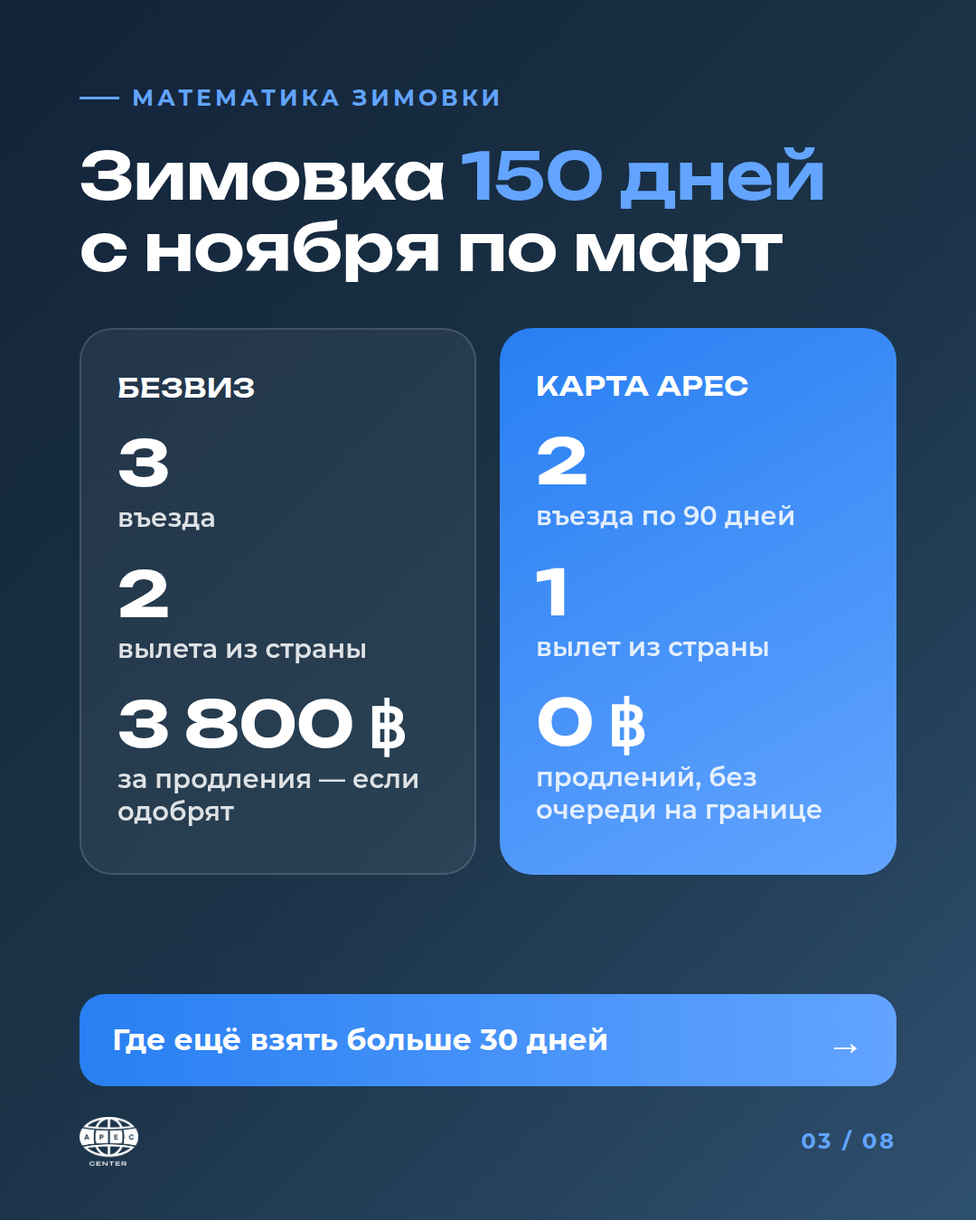
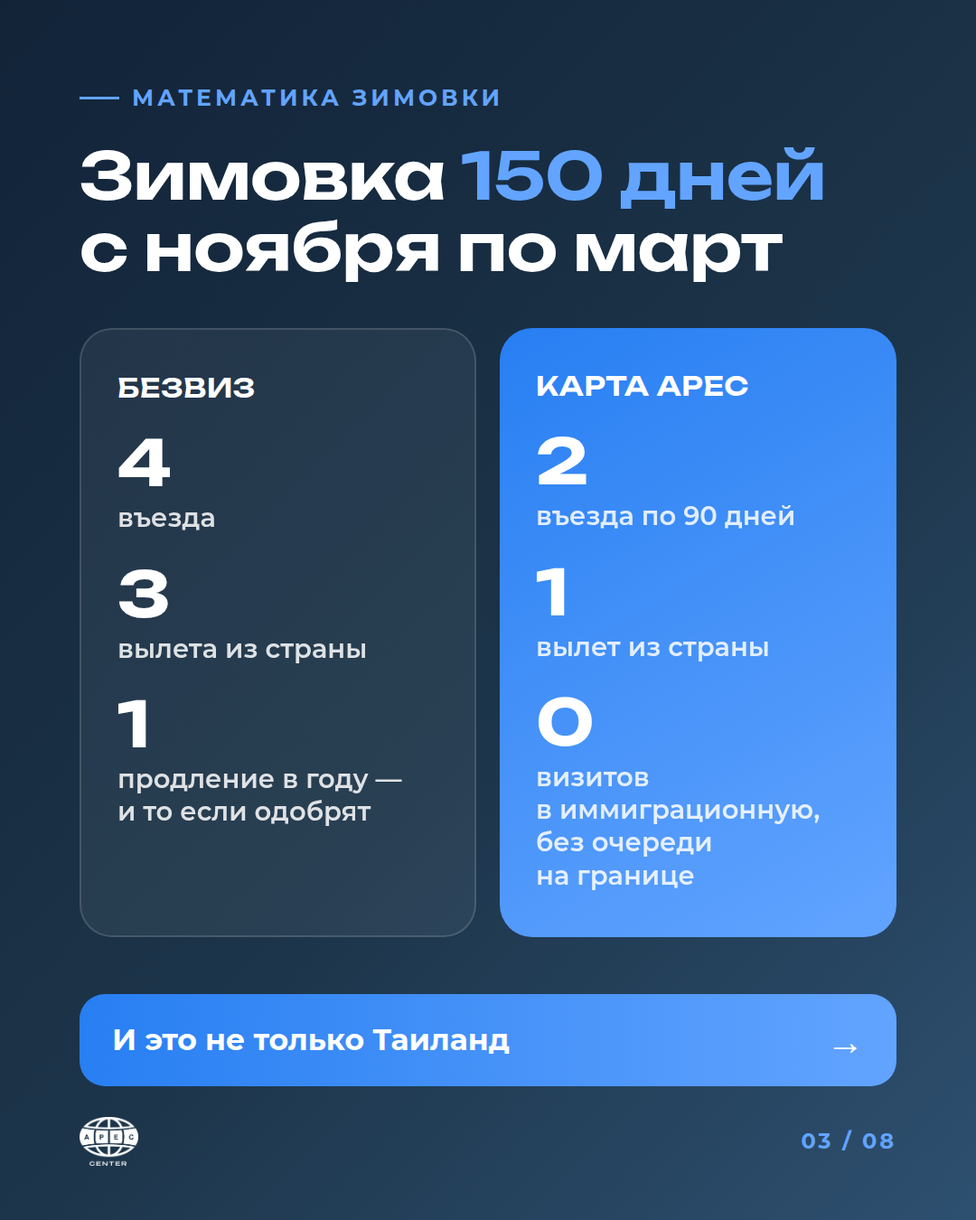
Real APEC card and Russian passport imagery; rewrite carousel copy from sales book
Claude-Session: https://claude.ai/code/session_01KUW5gvDSgVLbfC5BPYxotx

diff --git a/carousels/aleks-legal-90/slides.html b/carousels/aleks-legal-90/slides.html
@@ -172,6 +172,11 @@
   .ci.no .m { background: rgba(255,255,255,.14); }
   .chips-l { display: flex; flex-wrap: wrap; gap: 14px; margin-top: 30px; }
   .chip-l { font: 600 27px/1 'Montserrat'; padding: 20px 26px; border-radius: 999px; background: var(--white); color: var(--dark); box-shadow: 0 6px 20px rgba(28,52,73,.07); }
+
+  .stat2 { display: grid; grid-template-columns: 1fr 1fr; gap: 22px; margin-top: 44px; }
+  .stat2 .big { font: 700 170px/1 'Unbounded'; letter-spacing: -.04em; margin-top: 18px; }
+  .stat2 .u { font: 700 30px/1.2 'Montserrat'; margin-top: 8px; }
+  .stat2 .k { font: 500 27px/1.38 'Montserrat'; margin-top: 18px; opacity: .85; }
 </style>
 </head>
 <body>
@@ -181,113 +186,116 @@
   <div class="bg sky-shade" style="background-image:url(bg/cover.png)"></div>
   <img class="cover-logo" src="apec-logo-navy.png" alt="">
   <div class="content">
-    <span class="pill">Вопрос, который задают все</span>
-    <h1 style="font-size:74px;margin-top:24px">Штамп на&nbsp;90&nbsp;дней<br>в&nbsp;Таиланде —<br><span class="accent">это легально?</span></h1>
+    <span class="pill">Не верьте на слово</span>
+    <h1 style="font-size:70px;margin-top:24px;white-space:nowrap">Штамп на&nbsp;90&nbsp;дней:<br><span class="accent">законно или&nbsp;развод?</span></h1>
   </div>
-  <div class="footer"><span>@ALEKS_RYKOV</span><span class="swipe">Разбираю без воды →</span></div>
+  <div class="footer"><span>@ALEKS_RYKOV</span><span class="swipe">3 факта внутри →</span></div>
 </section>
 
-<!-- 2. КОРОТКИЙ ОТВЕТ -->
+<!-- 2. ОТВЕТ: ДА + 3 ПРОВЕРЯЕМЫХ ФАКТА -->
 <section class="slide light" id="s2">
   <div class="content">
     <span class="tag">Короткий ответ</span>
     <div class="yes-big">Да.</div>
     <div class="pillars">
-      <div class="pillar"><div class="ic">1</div><div><div class="t">Карту выдаёт МИД РФ</div><div class="d">Официальный документ, а не «услуга посредника»</div></div></div>
-      <div class="pillar"><div class="ic">2</div><div><div class="t">Таиланд — участник программы</div><div class="d">Полноправный участник APEC Business Travel Card</div></div></div>
-      <div class="pillar"><div class="ic">3</div><div><div class="t">90 дней прописаны в правилах</div><div class="d">Держателям карты с кодом THA — до&nbsp;90&nbsp;дней за въезд</div></div></div>
+      <div class="pillar"><div class="ic">1</div><div><div class="t">Карту выдаёт МИД РФ</div><div class="d">Официальный документ на 5 лет, а не «виза от посредника»</div></div></div>
+      <div class="pillar"><div class="ic">2</div><div><div class="t">Подача только через ТПП, РСПП или «Опору России»</div><div class="d">Других каналов в МИД просто нет</div></div></div>
+      <div class="pillar"><div class="ic">3</div><div><div class="t">Трек-номер проверяете сами</div><div class="d">В официальном кабинете APEC — без нас</div></div></div>
     </div>
   </div>
-  <div class="teaser"><span>Как это устроено</span><span>→</span></div>
+  <div class="teaser"><span>«Но я же не бизнесмен»</span><span>→</span></div>
   <div class="footer"><img src="apec-logo-navy.png" alt=""><span class="count">02 / 08</span></div>
 </section>
 
-<!-- 3. КАК РАБОТАЕТ -->
+<!-- 3. Я НЕ БИЗНЕСМЕН (ИН-01) -->
 <section class="slide dark" id="s3">
   <div class="content">
-    <span class="tag">Как это работает</span>
-    <h2>Не лазейка, <span class="accent">а&nbsp;программа АТЭС</span></h2>
-    <div class="photo-box" style="background-image:url(bg/stamp.png)"></div>
-    <div class="flow">
-      <div class="fl"><div class="n">1</div><div><div class="t">Страны проверяют вас заранее</div><div class="d">Каждая страна АТЭС сама одобряет держателя карты</div></div></div>
-      <div class="fl"><div class="n">2</div><div><div class="t">На обороте — код THA</div><div class="d">Значит, Таиланд уже дал согласие на ваш въезд</div></div></div>
-      <div class="fl"><div class="n">3</div><div><div class="t">Паспорт + карта на границе</div><div class="d">Отдельный коридор и штамп до 90 дней</div></div></div>
+    <span class="tag">Самый частый страх</span>
+    <h2>«Карта же для&nbsp;бизнесменов. <span class="accent">Мне нужно ИП?»</span></h2>
+    <div class="flow" style="margin-top:50px; gap:30px">
+      <div class="fl"><div class="n">1</div><div><div class="t">Нет, ИП открывать не нужно</div><div class="d">Подходит фриланс, найм, удалёнка — нужен только загранпаспорт</div></div></div>
+      <div class="fl"><div class="n">2</div><div><div class="t">Вас включают в компанию с реальной ВЭД</div><div class="d">Вы — её международный представитель</div></div></div>
+      <div class="fl"><div class="n">3</div><div><div class="t">Заявку подаёт она через аккредитованный канал</div><div class="d">ТПП РФ, РСПП или «Опора России» → МИД РФ</div></div></div>
+      <div class="fl"><div class="n">4</div><div><div class="t">Бухгалтерия и отчёты вам не нужны</div><div class="d">Статус формальный, обязательств не несёт</div></div></div>
     </div>
   </div>
-  <div class="teaser"><span>Почему 90, а не 30</span><span>→</span></div>
+  <div class="teaser"><span>Зачем это всё, если есть безвиз</span><span>→</span></div>
   <div class="footer"><img src="apec-logo-white.png" alt=""><span class="count">03 / 08</span></div>
 </section>
 
-<!-- 4. ПОЧЕМУ 90, А НЕ 30 -->
+<!-- 4. 11 ПРОТИВ 4 (ИН-09) -->
 <section class="slide light" id="s4">
   <div class="content">
     <span class="tag">С 15 сентября 2026</span>
-    <h2>Почему всем 30, <span class="accent">а&nbsp;по&nbsp;карте 90?</span></h2>
-    <div class="vs">
-      <div class="lightcol"><h3>Безвиз</h3><div class="big">30</div><div class="k">дней, только туризм, продление на&nbsp;усмотрение офицера</div></div>
-      <div class="bluecol"><h3>Карта APEC</h3><div class="big">90</div><div class="k">дней, отдельное соглашение для деловых поездок</div></div>
+    <h2>11 бордерранов в&nbsp;год <span class="accent">против&nbsp;4</span></h2>
+    <div class="stat2">
+      <div class="lightcol"><h3>Без карты</h3><div class="big">11</div><div class="u">выездов в год</div><div class="k">Безвиз 30 дней. Продлить на&nbsp;30 можно только раз в&nbsp;году</div></div>
+      <div class="bluecol"><h3>С картой APEC</h3><div class="big">4</div><div class="u">выезда в год</div><div class="k">90 дней за въезд, раз в&nbsp;квартал, без визитов в&nbsp;иммиграционную</div></div>
     </div>
-    <div class="verdict">Это <b>два разных основания для въезда</b>. Новые правила урезали безвиз, а&nbsp;программу APEC не&nbsp;затронули.</div>
+    <div class="verdict">Сокращение безвиза <b>держателей карты не затронуло</b>. Посчитайте: сколько стоит ваш один выезд × 7?</div>
   </div>
   <div class="teaser"><span>А теперь честно о нюансах</span><span>→</span></div>
   <div class="footer"><img src="apec-logo-navy.png" alt=""><span class="count">04 / 08</span></div>
 </section>
 
-<!-- 5. ЧТО ДАЁТ И ЧЕГО НЕТ -->
+<!-- 5. ЧЕСТНО ПРЕДУПРЕЖДАЕМ -->
 <section class="slide dark" id="s5">
   <div class="content">
-    <span class="tag">Честно о нюансах</span>
+    <span class="tag">Честно предупреждаем</span>
     <h2>Что карта даёт <span class="accent">и&nbsp;чего не&nbsp;даёт</span></h2>
     <div class="can">
-      <div class="ci ok"><div class="m">✓</div><div><div class="t">До 90 дней за въезд</div><div class="d">Деловые поездки: встречи, переговоры, поиск партнёров</div></div></div>
-      <div class="ci ok"><div class="m">✓</div><div><div class="t">Многократно 5 лет</div><div class="d">Пока действует загранпаспорт</div></div></div>
-      <div class="ci no"><div class="m">✕</div><div><div class="t">Не разрешение на работу</div><div class="d">Работать по найму в Таиланде можно только с work permit</div></div></div>
-      <div class="ci no"><div class="m">✕</div><div><div class="t">Не «автомат» на границе</div><div class="d">Последнее слово за офицером — как при любом въезде</div></div></div>
+      <div class="ci ok"><div class="m">✓</div><div><div class="t">До 90 дней за въезд, 5 лет</div><div class="d">Въезды не ограничены, коридор APEC в аэропортах</div></div></div>
+      <div class="ci ok"><div class="m">✓</div><div><div class="t">Ещё 17 стран АТЭС</div><div class="d">Сингапур и Тайвань без визы, Корея без K-ETA</div></div></div>
+      <div class="ci no"><div class="m">✕</div><div><div class="t">Не разрешение на работу</div><div class="d">И 90 дней в иммиграционной обычно не продлевают</div></div></div>
+      <div class="ci no"><div class="m">✕</div><div><div class="t">Не «пустят всегда»</div><div class="d">Решение о въезде — за пограничником. Японию и Австралию не обещаем</div></div></div>
     </div>
   </div>
-  <div class="teaser"><span>Откуда статус для подачи</span><span>→</span></div>
+  <div class="teaser"><span>Как проверить нас</span><span>→</span></div>
   <div class="footer"><img src="apec-logo-white.png" alt=""><span class="count">05 / 08</span></div>
 </section>
 
-<!-- 6. ВЭД-ПУЛ -->
+<!-- 6. КАК ПРОВЕРИТЬ НАС (ИН-04) -->
 <section class="slide light" id="s6">
   <div class="content">
-    <span class="tag">Частый вопрос</span>
-    <h2>«У меня нет бизнеса. <span class="accent">Мне можно?»</span></h2>
-    <div class="pillars">
-      <div class="pillar"><div class="ic">✓</div><div><div class="t">Да, по установленной процедуре</div><div class="d">Вас включают в пул внешнеторговых советников действующей ВЭД-компании</div></div></div>
-      <div class="pillar"><div class="ic">✓</div><div><div class="t">Заявку подаёт компания</div><div class="d">Через аккредитованный канал в МИД РФ: ТПП, РСПП или «Опора России»</div></div></div>
-      <div class="pillar"><div class="ic">✓</div><div><div class="t">Без обязательств для вас</div><div class="d">Статус формальный: ни отчётов, ни бухгалтерии</div></div></div>
+    <span class="tag">Проверяемые факты</span>
+    <h2>Как проверить, <span class="accent">что&nbsp;это не&nbsp;развод</span></h2>
+    <div class="photo-box" style="background-image:url(bg/check.png); height:370px; background-position:center 55%"></div>
+    <div class="chips-l">
+      <span class="chip-l">Договор с ИП Константиновым Д.&nbsp;Ю.</span>
+      <span class="chip-l">Трек-номер в кабинете APEC</span>
+      <span class="chip-l">Отзывы на Яндексе</span>
+      <span class="chip-l">Один сайт — apec.center</span>
+      <span class="chip-l">Возврат 100% при отказе МИД</span>
     </div>
   </div>
-  <div class="teaser"><span>Как проверить, что всё чисто</span><span>→</span></div>
+  <div class="teaser"><span>И всё это — удалённо</span><span>→</span></div>
   <div class="footer"><img src="apec-logo-navy.png" alt=""><span class="count">06 / 08</span></div>
 </section>
 
-<!-- 7. КАК ПРОВЕРИТЬ -->
+<!-- 7. УДАЛЁННО (ИН-08) -->
 <section class="slide photo" id="s7">
-  <div class="bg card-shade" style="background-image:url(bg/card.png)"></div>
+  <div class="bg full-shade" style="background-image:url(bg/cover-real.png)"></div>
   <div class="content">
-    <span class="tag">Чек-лист без серых схем</span>
-    <h2>Как понять, <span class="accent">что&nbsp;вас не&nbsp;обманут</span></h2>
+    <span class="tag">Без поездки в Россию</span>
+    <h2>Не&nbsp;выезжая <span class="accent">с&nbsp;Пхукета</span></h2>
     <div class="facts">
-      <div class="fact"><div class="t">Трек-номер из МИД РФ</div><div class="d">Приходит примерно через 60 дней после подачи</div></div>
-      <div class="fact"><div class="t">Код THA на обороте карты</div><div class="d">Проверяется сразу, как карта у вас в руках</div></div>
-      <div class="fact"><div class="t">Договор и возврат 100%</div><div class="d">Если МИД РФ официально откажет — деньги вернут по договору</div></div>
+      <div class="fact"><div class="t">Ни МИДа, ни собеседований</div><div class="d">Отпечатки и личный визит не нужны — только электронные копии</div></div>
+      <div class="fact"><div class="t">Цена фиксирована договором</div><div class="d">От 60 000 до 120 000 ₽, госпошлины и временная карта включены</div></div>
+      <div class="fact"><div class="t">Карту привезёт курьер</div><div class="d">По России и в Таиланд — бесплатно</div></div>
     </div>
   </div>
   <div class="footer"><img src="apec-logo-white.png" alt=""><span class="count">07 / 08</span></div>
 </section>
 
-<!-- 8. CTA -->
+<!-- 8. CTA (ИН-07) -->
 <section class="slide photo" id="s8">
   <div class="bg full-shade" style="background-image:url(bg/airport.png)"></div>
   <div class="content">
-    <span class="tag">Остались вопросы?</span>
+    <span class="tag">Первый шаг — бесплатный</span>
     <h2>Напиши в&nbsp;комментариях</h2>
     <div><span class="word">КАРТА</span></div>
-    <div class="lead">Пришлю в директ разбор: <b>условия, сроки, цену</b> и&nbsp;бесплатно проверим ваш паспорт</div>
-    <div class="save">Отправь тому, кто спрашивал «это легально?»</div>
+    <div class="lead">Бесплатно проверим ваш паспорт: <b>2 минуты, ни&nbsp;к&nbsp;чему не&nbsp;обязывает</b>. И сразу скажем, подходит ли карта</div>
+    <div class="save">Отправь тому, кто спрашивал «а это не развод?»</div>
   </div>
   <div class="footer"><span>@ALEKS_RYKOV</span><img src="apec-logo-white.png" alt=""></div>
 </section>

diff --git a/carousels/aleks-90-days/slides.html b/carousels/aleks-90-days/slides.html
@@ -161,7 +161,7 @@
     <div class="days">дней без визы для россиян с 15.09.2026</div>
     <ul class="list">
       <li>Продлить можно ещё на 30 дней: 1&nbsp;900&nbsp;฿, и&nbsp;решает офицер</li>
-      <li>Второе продление на&nbsp;том&nbsp;же въезде не&nbsp;дают</li>
+      <li>Продлевают только раз в&nbsp;году — дальше выезд каждые 30&nbsp;дней</li>
       <li>По суше — максимум 2&nbsp;безвизовых въезда в&nbsp;год</li>
     </ul>
   </div>
@@ -177,31 +177,32 @@
     <div class="compare">
       <div class="col">
         <h3>Безвиз</h3>
-        <div class="row"><div class="v">3</div><div class="k">въезда</div></div>
-        <div class="row"><div class="v">2</div><div class="k">вылета из&nbsp;страны</div></div>
-        <div class="row"><div class="v">3 800 ฿</div><div class="k">за продления — если одобрят</div></div>
+        <div class="row"><div class="v">4</div><div class="k">въезда</div></div>
+        <div class="row"><div class="v">3</div><div class="k">вылета из&nbsp;страны</div></div>
+        <div class="row"><div class="v">1</div><div class="k">продление в году — и&nbsp;то если одобрят</div></div>
       </div>
       <div class="col win">
         <h3>Карта APEC</h3>
         <div class="row"><div class="v">2</div><div class="k">въезда по 90 дней</div></div>
         <div class="row"><div class="v">1</div><div class="k">вылет из&nbsp;страны</div></div>
-        <div class="row"><div class="v">0 ฿</div><div class="k">продлений, без очереди на&nbsp;границе</div></div>
+        <div class="row"><div class="v">0</div><div class="k">визитов в&nbsp;иммиграционную, без очереди на&nbsp;границе</div></div>
       </div>
     </div>
   </div>
-  <div class="teaser"><span>Где ещё взять больше 30 дней</span><span>→</span></div>
+  <div class="teaser"><span>И это не только Таиланд</span><span>→</span></div>
   <div class="footer"><img src="apec-logo-white.png" alt=""><span class="count">03 / 08</span></div>
 </section>
 
-<!-- 4. ГДЕ ВЗЯТЬ 90 ДНЕЙ -->
+<!-- 4. КУДА ЕЩЁ ПО КАРТЕ (ИН-10) -->
 <section class="slide light" id="s4">
   <div class="content">
-    <span class="tag">Где взять больше 30 дней</span>
-    <h2>3 законных пути<br><span class="accent">и их цена</span></h2>
+    <span class="tag">Куда ещё по карте</span>
+    <h2>Без карты → <span class="accent">с&nbsp;картой</span></h2>
     <div class="opts">
-      <div class="opt"><div class="name">DTV</div><div class="desc">До 180 дней, но нужно <b>от&nbsp;500&nbsp;000&nbsp;฿</b> на&nbsp;счету</div></div>
-      <div class="opt"><div class="name">ED</div><div class="desc">Учебная виза: школа, <b>посещаемость</b>, продления каждые 90&nbsp;дней</div></div>
-      <div class="opt win"><div class="name">APEC</div><div class="desc"><b>90 дней за каждый въезд</b> на&nbsp;5&nbsp;лет. Без депозита и учёбы</div></div>
+      <div class="opt"><div class="name" style="font-size:40px">SG · TW</div><div class="desc">Сингапур и Тайвань — <b>без визы</b> вместо визы</div></div>
+      <div class="opt"><div class="name" style="font-size:40px">HK</div><div class="desc">Гонконг — <b>60 дней</b> вместо 14</div></div>
+      <div class="opt"><div class="name" style="font-size:40px">MY · CN</div><div class="desc">Малайзия и Китай — <b>60 дней</b> вместо 30</div></div>
+      <div class="opt win"><div class="name" style="font-size:40px">KR</div><div class="desc"><b>Корея — 90 дней и без K-ETA</b></div></div>
     </div>
   </div>
   <div class="teaser"><span>Что даёт карта APEC</span><span>→</span></div>

diff --git a/carousels/aleks-legal-90/README.md b/carousels/aleks-legal-90/README.md
@@ -1,4 +1,4 @@
-# Карусель @aleks_rykov: «Штамп на 90 дней в Таиланде — это легально?»
+# Карусель @aleks_rykov: «Штамп на 90 дней: законно или развод?»
 
 8 слайдов 1080×1350 (`slide-01.png` … `slide-08.png`), фирменный стиль APEC Center. Исходник `slides.html` (шаблон из `../aleks-90-days`), фоны в `bg/`: `cover.png` — паспорт и карта на пляже (основная обложка), `cover-alt.png` — девушка в аэропорту Пхукета (запасная), `stamp.png` — штамп в паспорте; `card.png` и `airport.png` из прошлой карусели.
 
@@ -11,22 +11,32 @@
 - Карта — не разрешение на работу: работа по найму в Таиланде только с work permit. Решение на границе за офицером.
 - Включение в пул внешнеторговых советников ВЭД-компании — формальный статус для подачи, обязательств не несёт (база знаний CRM).
 
+## Фото
+Реальный вид документов: генерация `google/nano-banana-edit` с двумя образцами — карта APEC с фото клиента (`lead-magnet/img/case.jpg`) и российский загранпаспорт (Wikimedia Commons, RussianPassport.JPEG). `cover.png` (= `cover-real2.png`) — обложка, `cover-real.png` — фон слайда 7, `check.png` — флэтлей для слайда 6. Личные данные на карте размыты.
+
+## Откуда тексты
+Книга продаж APEC Center в базе знаний CRM: ИН-01 («мне нужно ИП?»), ИН-04 («это законно? вы не мошенники?» — только проверяемые факты), ИН-07 (бесплатная проверка паспорта как первый шаг), ИН-08 (всё удалённо), ИН-09 («11 бордерранов против 4»), «Честно предупреждаем».
+
 ## Подпись к посту
 ```
-«Штамп на 90 дней — это вообще легально?» 🤔
-Этот вопрос мне задают чаще всего. Отвечаю честно.
+«Это законно или развод?» — самый частый вопрос про карту APEC 🤔
+Не верьте на слово. Вот факты, которые вы проверите сами.
 
-Да, легально. Карту APEC выдаёт МИД РФ, а Таиланд — полноправный участник программы. Держателям карты с кодом THA ставят штамп до 90 дней за въезд.
+✅ Карту выдаёт МИД РФ — это официальный документ на 5 лет.
+✅ Подать заявку можно только через ТПП РФ, РСПП или «Опору России».
+✅ Трек-номер вы проверяете сами в официальном кабинете APEC.
 
-Почему всем 30, а по карте 90? Это два разных основания для въезда. С 15 сентября урезали безвиз, а программу APEC это не затронуло.
+«Я не бизнесмен, мне нужно ИП?» Нет. Вас включают в компанию с реальной ВЭД как международного представителя — бухгалтерия и отчёты вам не нужны.
 
-И честно о нюансах: карта — для деловых поездок, это не разрешение на работу по найму. И последнее слово на границе всегда за офицером.
+Зачем, если есть безвиз? С 15 сентября безвиз — 30 дней, продление только раз в году. Это около 11 бордерранов в год. С картой — 4.
 
-Листай карусель — там всё по шагам 👉
+И честно: карта не разрешение на работу, а решение о въезде всегда за пограничником.
 
-Остались вопросы? Напиши «КАРТА» в комментариях — пришлю разбор: условия, сроки, цену. И бесплатно проверим ваш паспорт.
+Листай 👉 там всё по шагам.
 
-Отправь тому, кто спрашивал «а это не серая схема?» 📩
+Напиши «КАРТА» в комментариях — бесплатно проверим ваш паспорт. 2 минуты, ни к чему не обязывает.
+
+Отправь тому, кто спрашивал «а это не развод?» 📩
 
 #таиланд #пхукет #визавтаиланд #зимовкавтаиланде #безвиз #таиланд2026 #apec #картаапек #штамп90дней
 ```

diff --git a/carousel-brief.md b/carousel-brief.md
@@ -41,3 +41,18 @@
 - В промпте не просить надписи на предметах: модель рисует «псевдотекст» и кривые гербы (на пробном фоне получился паспорт с выдуманной эмблемой).
 - Текст на слайдах лучше накладывать отдельно (HTML/Figma), а в kie.ai генерировать только фоны и сцены. Так кириллица не ломается и шрифты одинаковые на всех слайдах.
 - База промпта: `minimalist premium editorial photo, deep navy #0F1E36 and matte gold #D4AF37, old money diplomatic aesthetic, soft natural light, clean negative space for text, no text, no logos, 4:5`.
+
+## Офферы и формулировки из книги продаж (CRM, v1.4 от 27.09.2026)
+- Главная цифра: «Без карты — около 11 бордерранов в год, с картой — 4, раз в квартал». Безвиз 30 дней, продление +30 только раз в году.
+- Первый шаг: «Бесплатно проверим паспорт — 2 минуты, ни к чему не обязывает».
+- Цена прямо: «от 60 000 до 120 000 ₽, госпошлины и временная карта включены, всё удалённо».
+- Доверие только проверяемыми фактами: МИД РФ; подача через ТПП РФ, РСПП или «Опору России»; договор с ИП Константиновым Д. Ю.; трек-номер в официальном кабинете APEC; отзывы на Яндексе; один сайт apec.center; возврат 100% при официальном отказе МИД РФ или APEC. Никогда «нам можно доверять».
+- «Я не бизнесмен»: включают в компанию с реальной ВЭД как международного представителя, бухгалтерия и отчёты не нужны. Не советовать «откройте ИП», не называть компании-партнёров.
+- Удалённо: ни поездки в Россию, ни МИДа, ни собеседований; доставка курьером по России и в Таиланд бесплатно.
+- Куда ещё: Сингапур и Тайвань без визы; Гонконг 60 вместо 14; Малайзия, Китай 60 вместо 30; Корея 90 без K-ETA. Расширение до 90 в Китае и др. — только «объявлено, дата не назначена».
+- Единственный честный дедлайн: реестр до четверга 15:00 МСК, в пятницу подача в МИД. Никаких «только сегодня».
+- Нельзя: называть карту визой; обещать жизнь без выездов, продление 90 дней, право работать, Японию и Австралию; называть условия и цены DTV/ED/туристических виз; скидки в контенте.
+- Четыре силы клиента: толкает (устал от визаранов, скоро поездка), тянет (5 лет, 90 дней, Fast Track), пугает (сумма, «развод», «не успею», «я не бизнесмен»), держит привычка («бордерраны и так работают»).
+
+## Реальный вид документов на фото
+Генерировать через `google/nano-banana-edit` с образцами в `image_urls`: карта — `https://raw.githubusercontent.com/apec-center/apec/claude/funny-goodall-skv64r/lead-magnet/img/case.jpg`, загранпаспорт — `https://upload.wikimedia.org/wikipedia/commons/3/3a/RussianPassport.JPEG`. Личные данные на карте просить размыть.

diff --git a/carousels/aleks-90-days/README.md b/carousels/aleks-90-days/README.md
@@ -19,20 +19,24 @@
 ```
 С 15 сентября Таиланд урезал безвиз для россиян до 30 дней 🇹🇭
 
-Продление — ещё 30 дней за 1 900 ฿, и то если одобрит офицер. По суше — максимум 2 безвизовых въезда в год.
+Продлить на 30 дней можно только раз в году — дальше выезд каждые 30 дней. Это около 11 бордерранов в год.
 
-Зимовка с ноября по март теперь выглядит так: 3 въезда, 2 вылета из страны и нервы на каждой границе.
+Зимовка с ноября по март теперь выглядит так: 4 въезда, 3 вылета и продление, которое ещё должны одобрить.
 
-Но штамп на 90 дней всё ещё ставят — по карте APEC. Без депозита, без учёбы, на 5 лет и через отдельный коридор в аэропорту.
+Но штамп на 90 дней всё ещё ставят — по карте APEC. 4 выезда в год вместо 11, 5 лет, отдельный коридор в аэропорту. Сокращение безвиза держателей карты не затронуло.
 
 Посчитал всё в карусели 👉 листай
 
-Хочешь так же? Напиши «КАРТА» в комментариях — пришлю в директ разбор: условия, сроки и цену.
+Напиши «КАРТА» в комментариях — пришлю разбор: условия, сроки и цену. И бесплатно проверим ваш паспорт: 2 минуты, ни к чему не обязывает.
 
 Сохрани, чтобы не потерять 🔖
 
 #таиланд #пхукет #зимовкавтаиланде #визавтаиланд #безвиз #таиланд2026 #пхукет2026 #apec #картаапек
 ```
+
+## Правки по книге продаж (05.10.2026)
+- Продление безвиза — «только раз в году» (раздел ИН-09), а не «одно на въезд». Математика зимовки пересчитана: 4 въезда / 3 вылета / 1 продление.
+- Слайд 4 со сравнением DTV и ED заменён на «Куда ещё по карте» (ИН-10): книга запрещает называть условия и цены чужих виз.
 
 ## Важно
 - На обложке бутылка пива Chang. В органическом посте это допустимо, но если пост пойдёт в рекламу Meta, алкоголь в креативе ограничивает показы (возраст 18+/21+, часть стран). Для рекламы лучше сделать вариант с кокосом или манговым смузи.
